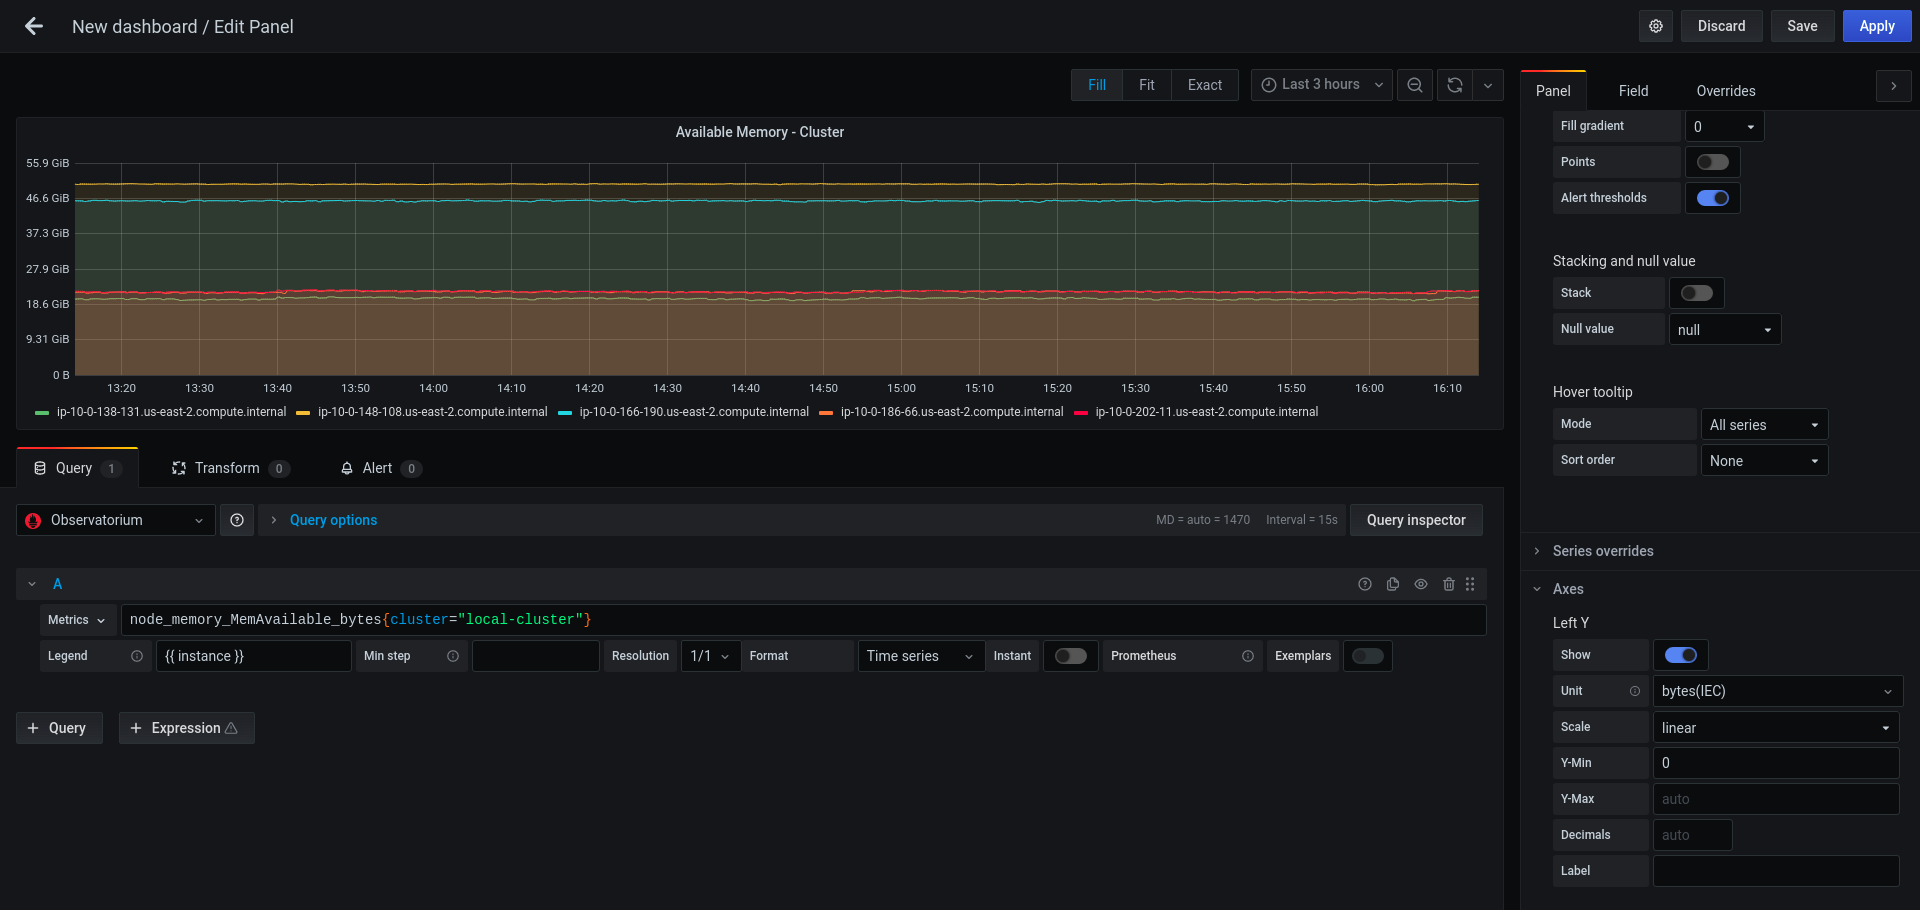
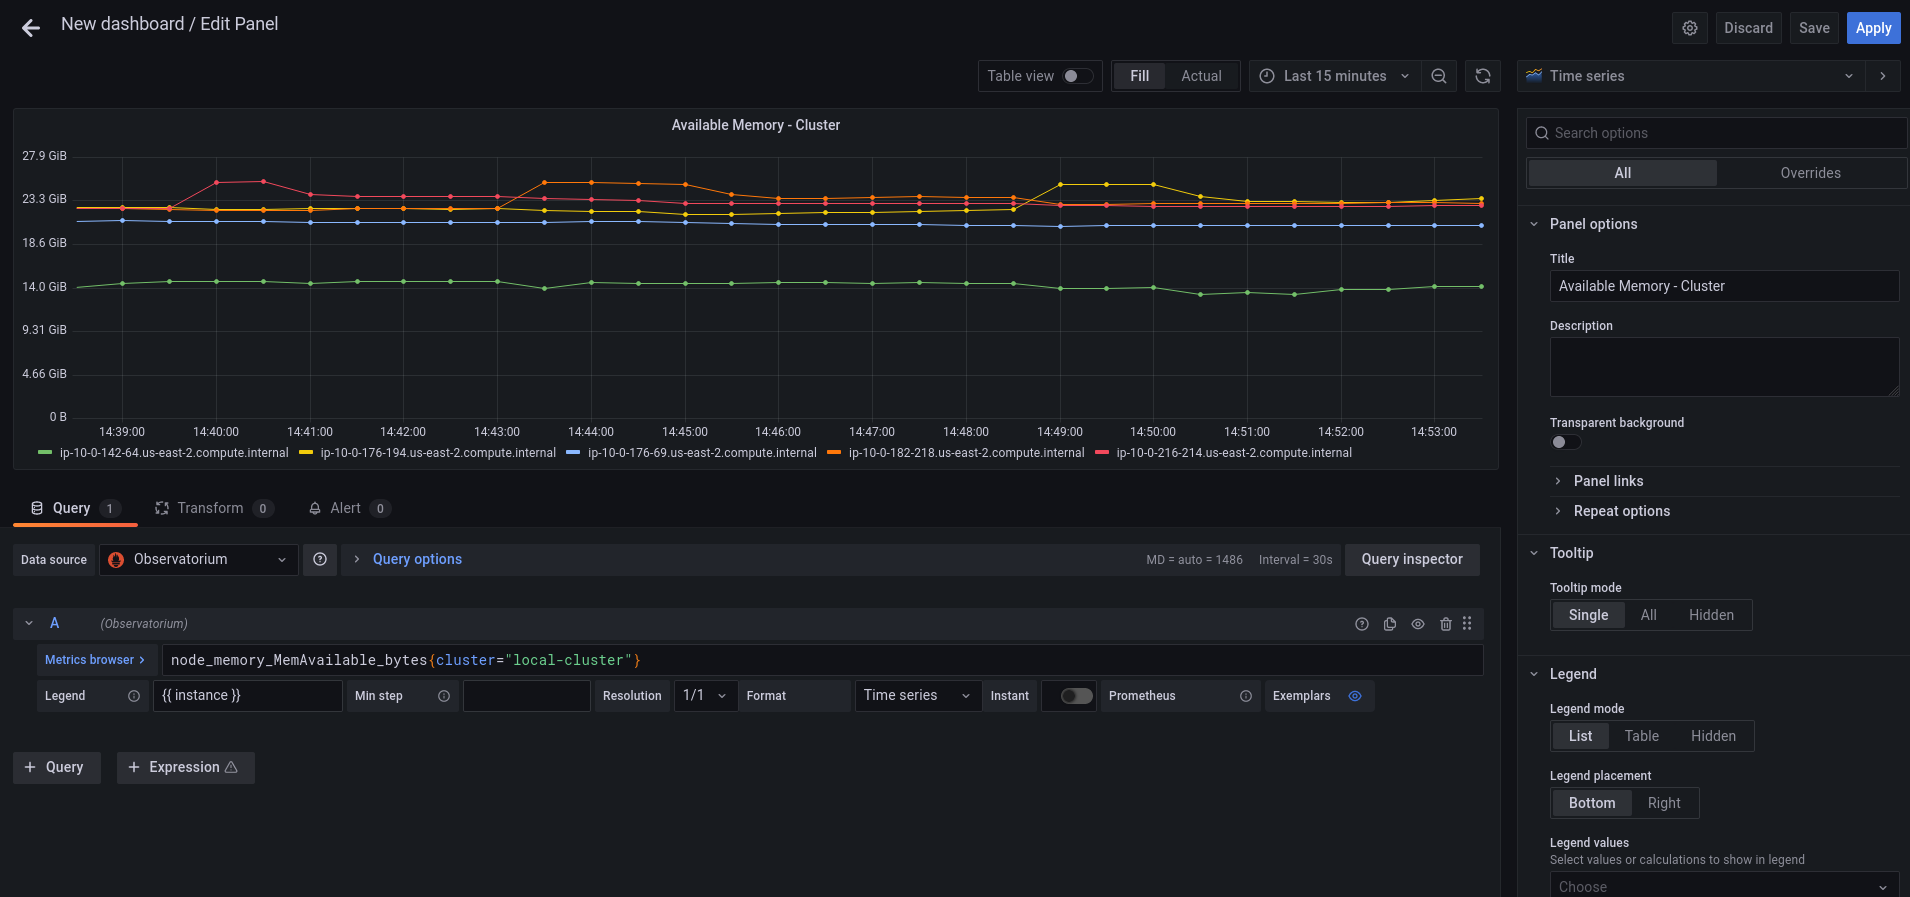
Adjusted exercise 3 for 2.5

diff --git a/03.Observability/README.md b/03.Observability/README.md
@@ -92,7 +92,7 @@ endpoint-observability-operator-764b6c666-9s7nz   1/1     Running   0          2
 metrics-collector-deployment-765946868-hmk5d      1/1     Running   0          2d1h
 ```
 
-Now, that all pods are running, log into RHACM's dashboard and navigate to **Cluster Lifecycle** -> **Grafana (top right side)**. Make sure that the dashboards are available and graphs are present.
+Now, that all pods are running, log into RHACM's dashboard and navigate to **Clusters** -> **Grafana (top right side)**. Make sure that the dashboards are available and graphs are present.
 
 ### 3.2 - Explore the default Grafana dashboards
 
@@ -201,7 +201,7 @@ Make sure that the alert works as expected.
 
 In this section you will add your own dashboard to the default dashboards that come with MCO.
 
-Before you can create a custom dashboard, you need to spin up an instance of a "Development Grafana" in which you'll design your dashboard. Follow the steps described in slides 84 and 85 in the [workshop's presentation](https://docs.google.com/presentation/d/1LCPvIT_nF5hwnrfYdlD0Zie4zdDxc0kxZtW3Io5jfFk/edit?usp=sharing) to create the development instance of Grafana.
+Before you can create a custom dashboard, you need to spin up an instance of a "Development Grafana" in which you'll design your dashboard. Follow the steps described in slides 85 and 86 in the [workshop's presentation](https://docs.google.com/presentation/d/1LCPvIT_nF5hwnrfYdlD0Zie4zdDxc0kxZtW3Io5jfFk/edit?usp=sharing) to create the development instance of Grafana.
 
 **NOTE** Make sure to log into the Grafana Dev instance with the wanted `admin` user before you run the `./switch-to-grafana-admin.sh` script!
 
@@ -212,8 +212,8 @@ The dashboard you design in this part will present a graph that aggregates all a
 
 - Log into the development instance.
 - Press on the large `+` on the left sidebar, select `Dashboard`.
-- Press on `Add new panel` in order to create a custom graph.
-- Enter the next query in the `metrics` tab `node_memory_MemAvailable_bytes{cluster="local-cluster"}`.
+- A panel will appear in the new dashboard. Press on `Add an empty panel` in order to create a custom graph.
+- Enter the next query in the `Metrics browser` tab - `node_memory_MemAvailable_bytes{cluster="local-cluster"}`.
 - Enter the next label into the `Legend` field - `{{ instance }}`.
 - In the right menu, scroll down to the `Standard options` section. In the `Unit` section, select `Data` -> `bytes (IEC)`.
 - In the same menu, add `0` to the `Min` key.
@@ -245,6 +245,6 @@ ip-10-0-202-11.us-east-2.compute.internal    1754m        23%    8781Mi         
 
 Until now, you have worked on the "Development" Grafana instance. It's time to export the dashboard you've created to the main "Production" Grafana instance. Before you begin the export process, make sure to save your dashboard by pressing `CTRL + S`. Provide the dashboard with a simple, declarative name.
 
-To export the dashboard to the "Production" instance, follow the steps described in slide 86 in the [workshop's presentation](https://docs.google.com/presentation/d/1LCPvIT_nF5hwnrfYdlD0Zie4zdDxc0kxZtW3Io5jfFk/edit?usp=sharing).
+To export the dashboard to the "Production" instance, follow the steps described in slides 87,88 in the [workshop's presentation](https://docs.google.com/presentation/d/1LCPvIT_nF5hwnrfYdlD0Zie4zdDxc0kxZtW3Io5jfFk/edit?usp=sharing).
 
 Make sure that the dashboard is available in the Production Grafana instance in the 'Custom' directory.
